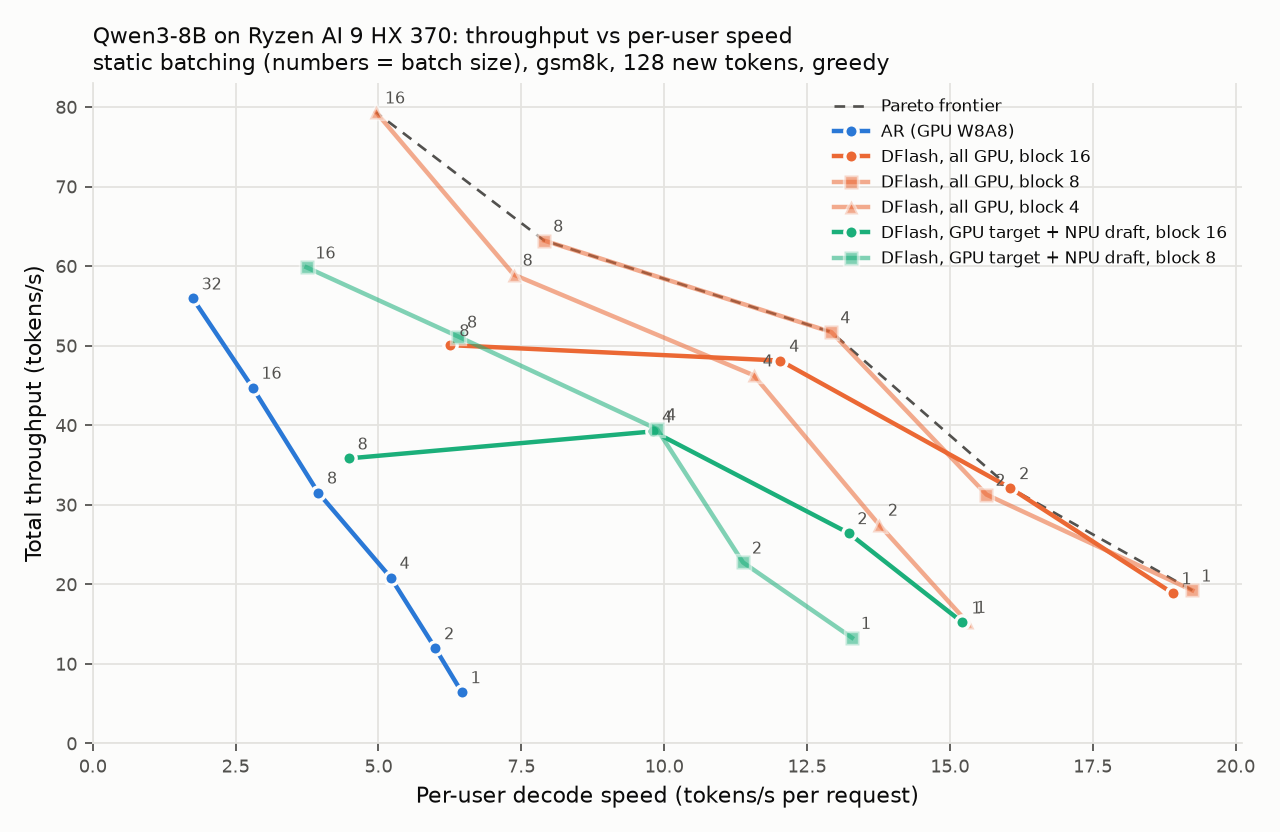
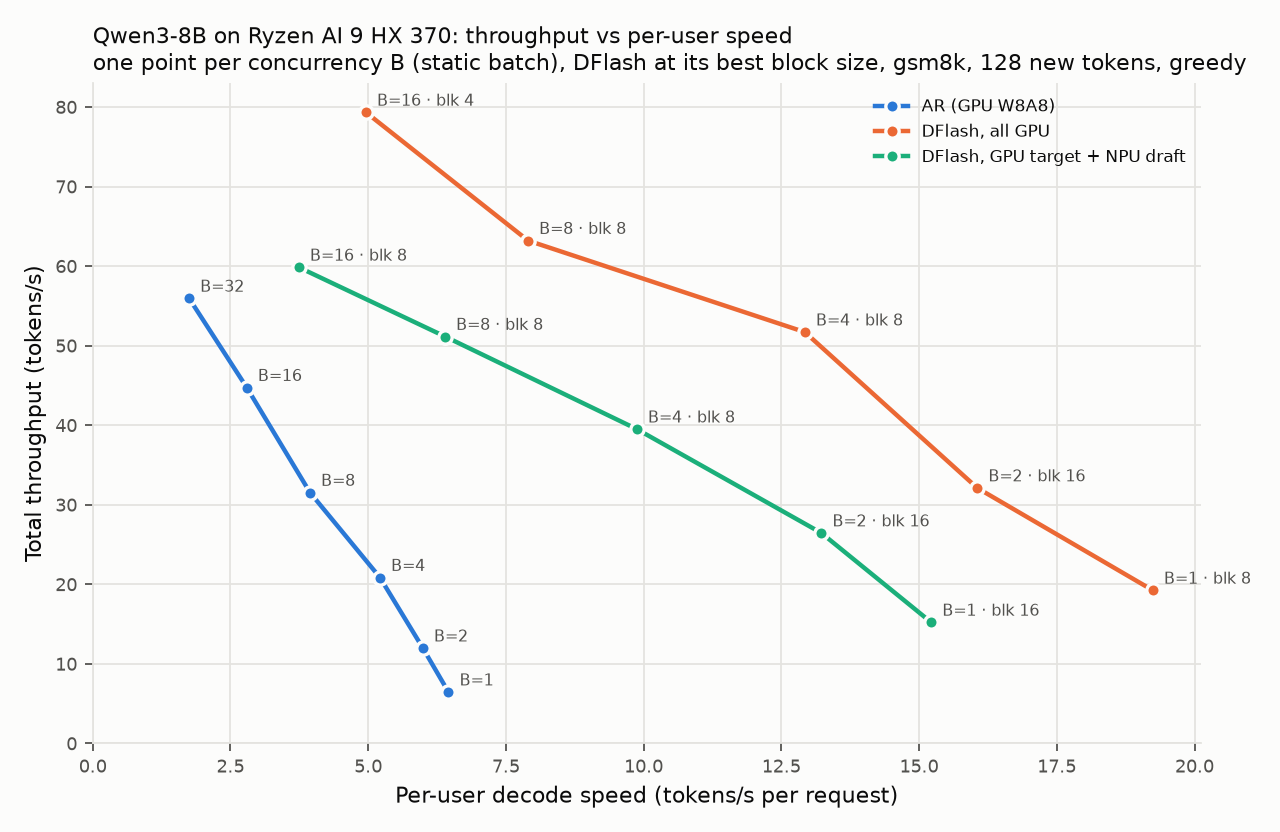
plot: one curve per system, one point per concurrency (best block)

diff --git a/scripts/hetero/plot_pareto.py b/scripts/hetero/plot_pareto.py
@@ -1,4 +1,4 @@
-"""Plot throughput vs per-user TPS from pareto.py results, with the Pareto frontier.
+"""Plot throughput vs per-user TPS from pareto.py results: one curve per system.
 
 Usage: .venv/bin/python scripts/hetero/plot_pareto.py [docs/data/pareto.jsonl] [docs/pareto.png]
 """
@@ -14,49 +14,45 @@ src = sys.argv[1] if len(sys.argv) > 1 else "docs/data/pareto.jsonl"
 dst = sys.argv[2] if len(sys.argv) > 2 else "docs/pareto.png"
 rows = [json.loads(line) for line in open(src)]
 
-# Color = system (fixed categorical order), marker = draft block size.
+# Color = system (fixed categorical order).
 SYSTEMS = [
     ("ar", "AR (GPU W8A8)", "#2a78d6"),
     ("gpu", "DFlash, all GPU", "#eb6834"),
     ("hetero", "DFlash, GPU target + NPU draft", "#1baf7a"),
 ]
-MARKERS = {1: "o", 16: "o", 8: "s", 4: "^"}
 INK, MUTED, GRID, SURFACE = "#0b0b0b", "#52514e", "#e4e3df", "#fcfcfb"
 
 
-def frontier(points):
-    """Points not dominated in (tps_per_user, throughput), sorted by TPS."""
-    best = []
-    for r in sorted(points, key=lambda r: (-r["tps_per_user"], -r["throughput"])):
-        if not best or r["throughput"] > best[-1]["throughput"]:
-            best.append(r)
-    return best
+def best_per_batch(points):
+    """One point per concurrency: the block size with the highest throughput at that batch.
+
+    At a fixed batch, throughput = batch * per-user TPS, so this block is also the
+    fastest per user; the frontier of these points is the system's tuned curve.
+    """
+    best = {}
+    for r in points:
+        if r["batch"] not in best or r["throughput"] > best[r["batch"]]["throughput"]:
+            best[r["batch"]] = r
+    return [best[b] for b in sorted(best)]
 
 
 fig, ax = plt.subplots(figsize=(8, 5.2), dpi=160)
 fig.patch.set_facecolor(SURFACE)
 ax.set_facecolor(SURFACE)
-front = frontier(rows)
-ax.plot([r["tps_per_user"] for r in front], [r["throughput"] for r in front],
-        color=MUTED, lw=1.2, ls=(0, (4, 3)), zorder=1, label="Pareto frontier")
-
 for key, label, color in SYSTEMS:
-    sys_rows = [r for r in rows if r["system"] == key]
-    for block in sorted({r["block"] for r in sys_rows}, reverse=True):
-        pts = sorted((r for r in sys_rows if r["block"] == block), key=lambda r: r["batch"])
-        name = label if key == "ar" else f"{label}, block {block}"
-        ax.plot([r["tps_per_user"] for r in pts], [r["throughput"] for r in pts],
-                color=color, lw=2, alpha=1.0 if block in (1, 16) else 0.55, zorder=2,
-                marker=MARKERS.get(block, "o"), ms=6, mec=SURFACE, mew=1.5, label=name)
-        for r in pts:  # batch size beside each point, in text ink
-            ax.annotate(f"{r['batch']}", (r["tps_per_user"], r["throughput"]), xytext=(4, 4),
-                        textcoords="offset points", fontsize=7, color=MUTED)
+    pts = best_per_batch([r for r in rows if r["system"] == key])
+    ax.plot([r["tps_per_user"] for r in pts], [r["throughput"] for r in pts], color=color, lw=2,
+            marker="o", ms=6, mec=SURFACE, mew=1.5, label=label, zorder=2)
+    for r in pts:  # concurrency (and the block size picked for it) beside each point
+        text = f"B={r['batch']}" if key == "ar" else f"B={r['batch']} · blk {r['block']}"
+        ax.annotate(text, (r["tps_per_user"], r["throughput"]), xytext=(5, 3),
+                    textcoords="offset points", fontsize=7, color=MUTED)
 
 ax.set_xlabel("Per-user decode speed (tokens/s per request)", color=INK)
 ax.set_ylabel("Total throughput (tokens/s)", color=INK)
 ds = rows[0]["dataset"]
 ax.set_title(f"Qwen3-8B on Ryzen AI 9 HX 370: throughput vs per-user speed\n"
-             f"static batching (numbers = batch size), {ds}, {rows[0]['max_new_tokens']} new tokens, greedy",
+             f"one point per concurrency B (static batch), DFlash at its best block size, {ds}, {rows[0]['max_new_tokens']} new tokens, greedy",
              fontsize=10, color=INK, loc="left")
 ax.grid(color=GRID, lw=0.8)
 ax.set_axisbelow(True)
@@ -70,4 +66,4 @@ ax.set_ylim(bottom=0)
 ax.legend(fontsize=7.5, frameon=False, labelcolor=INK, loc="upper right")
 fig.tight_layout()
 fig.savefig(dst, facecolor=SURFACE)
-print("wrote", dst, "| frontier:", [(r["system"], r["block"], r["batch"]) for r in front])
+print("wrote", dst)

diff --git a/docs/hetero_gpu_npu_design.md b/docs/hetero_gpu_npu_design.md
@@ -124,6 +124,7 @@ DFlash greedy 输出和自回归的前 48 个 token 完全一致，第 48 个 to
 - target 都是 GPU W8A8 + `torch.compile` + int8 lm_head。
 - 原始数据：`docs/data/pareto.jsonl`；运行日志：`docs/data/sweep.log`。
 - 复现：`scripts/hetero/pareto.py` 跑数据，`plot_pareto.py` 画图。
+- 图中每个系统一条线，每个点对应一个并发数 B。DFlash 在每个 B 下取吞吐最高的 block size（同一个 B 下，吞吐最高也就是每用户 TPS 最高），点旁边标注所用的 block。各个 block 的完整数据都在 jsonl 里。
 
 **正确性：**
 - AR batching 和原实现逐 token 一致。
